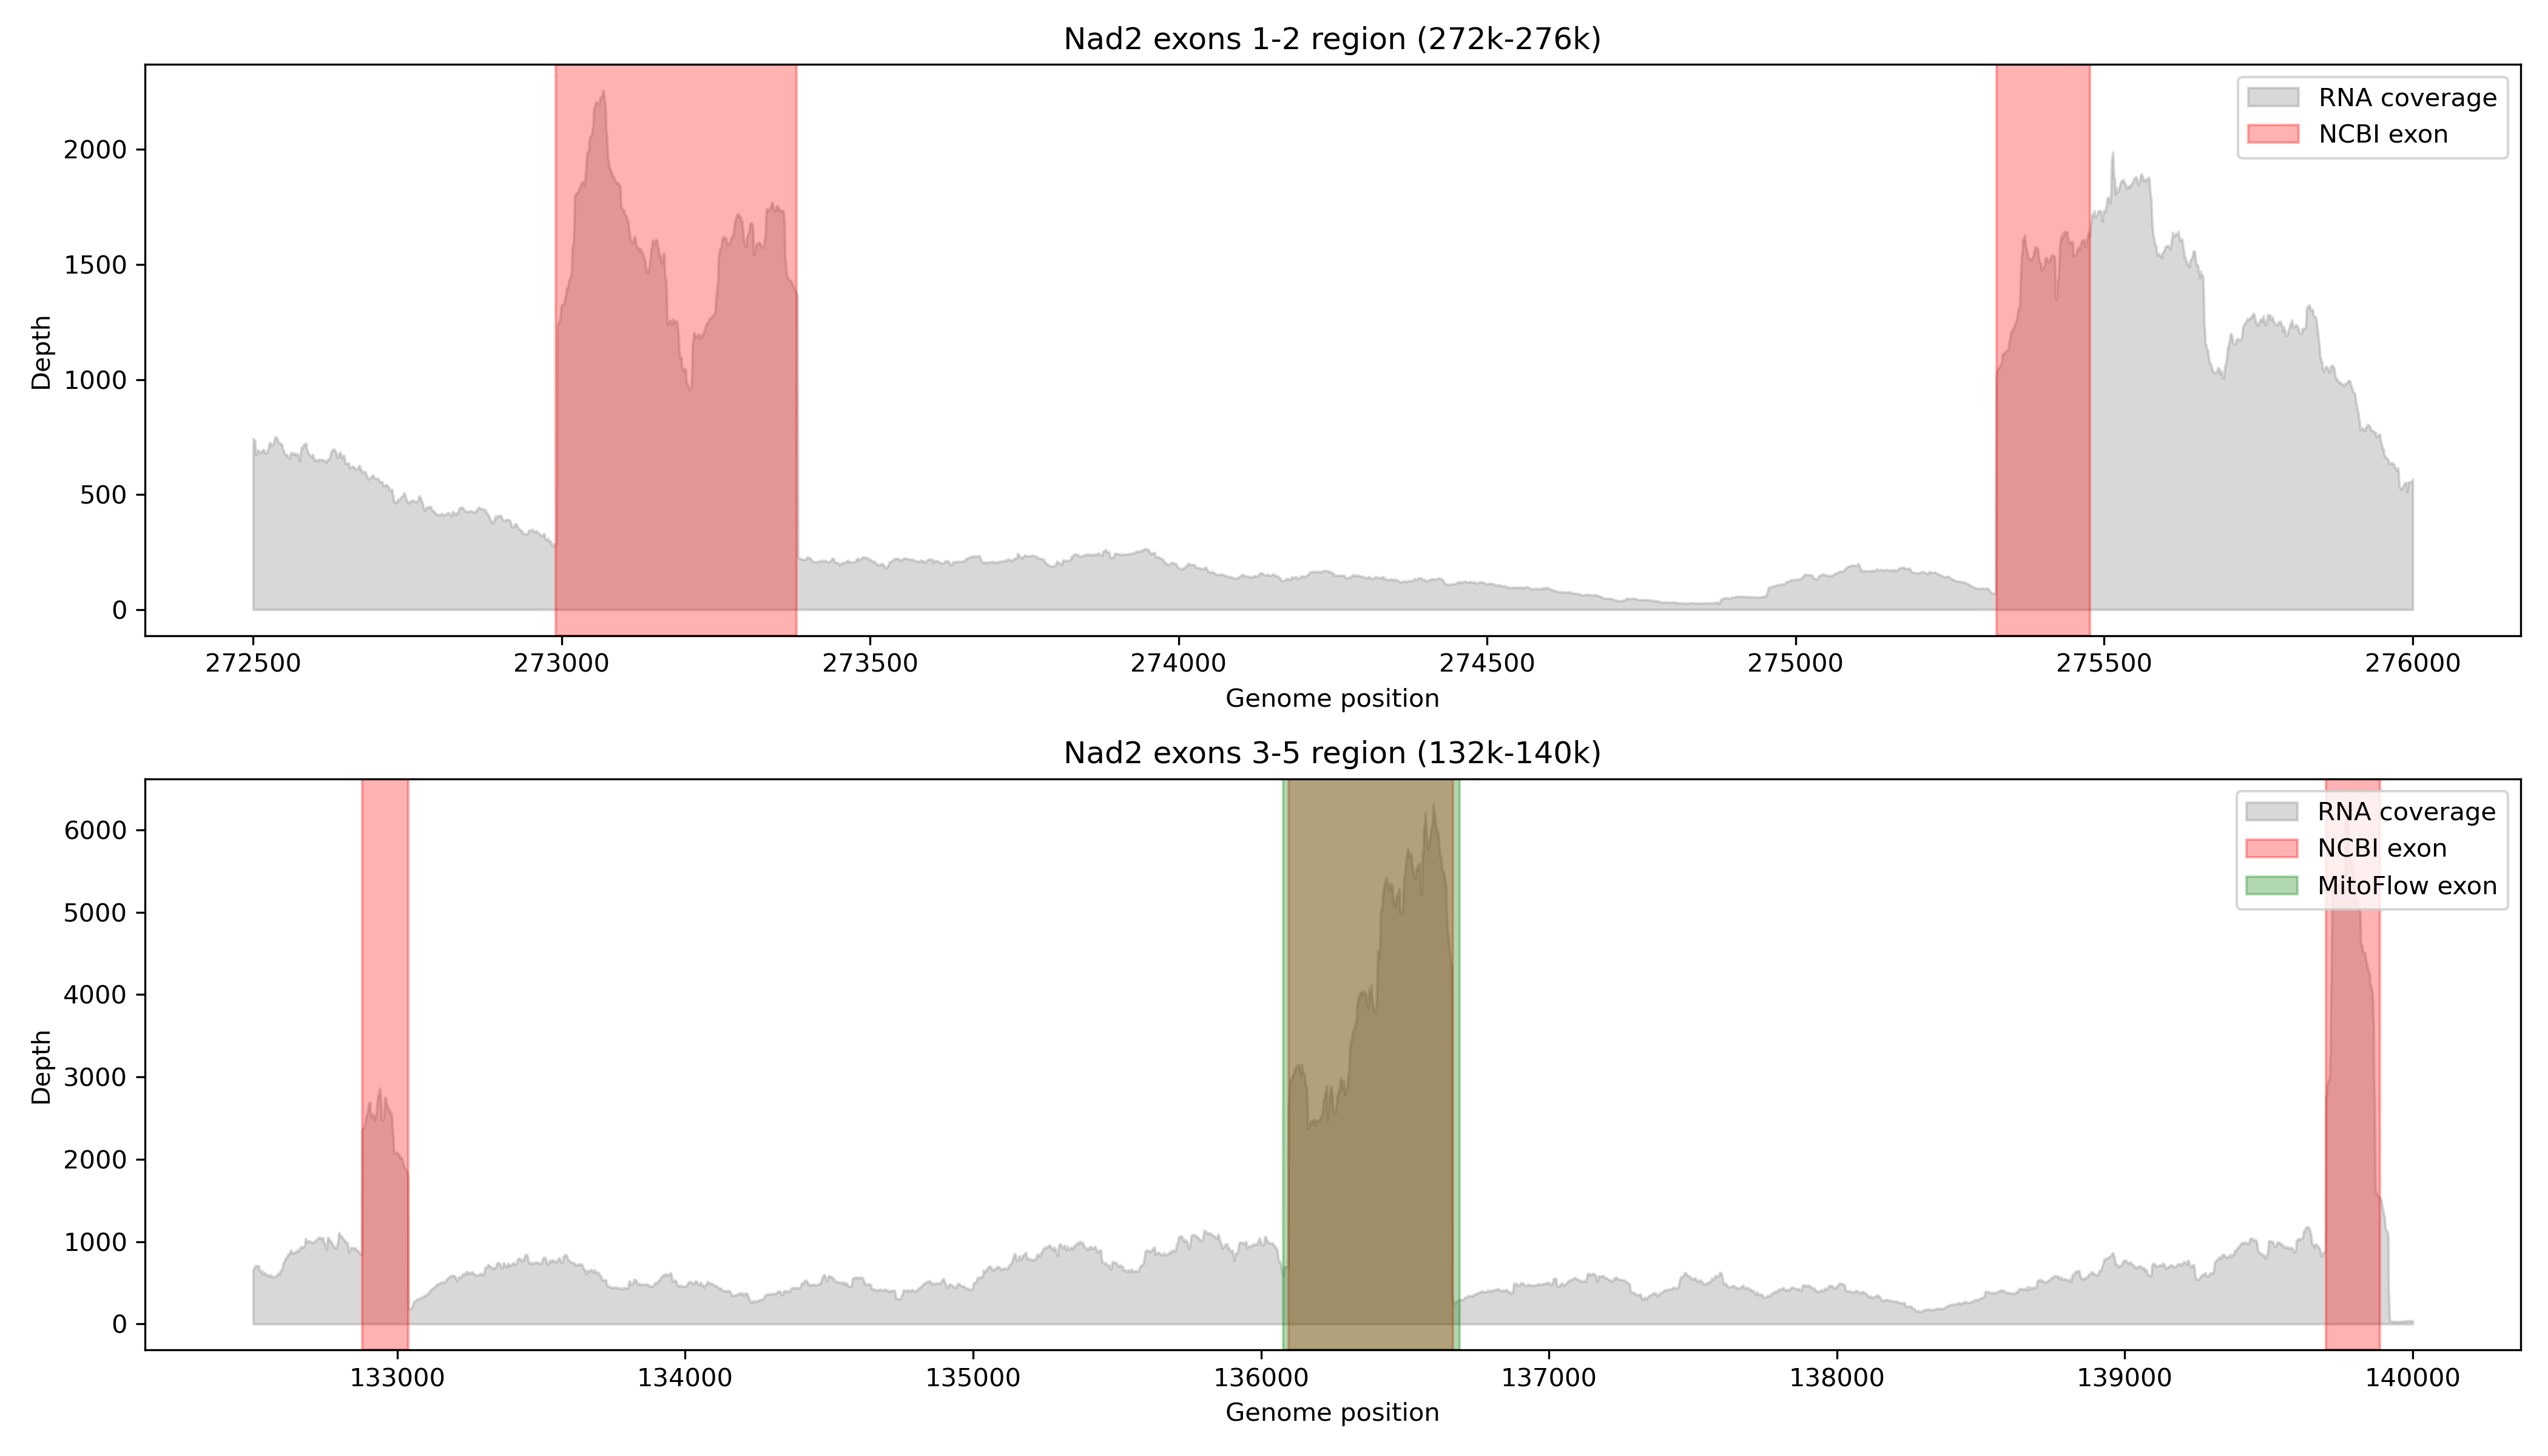
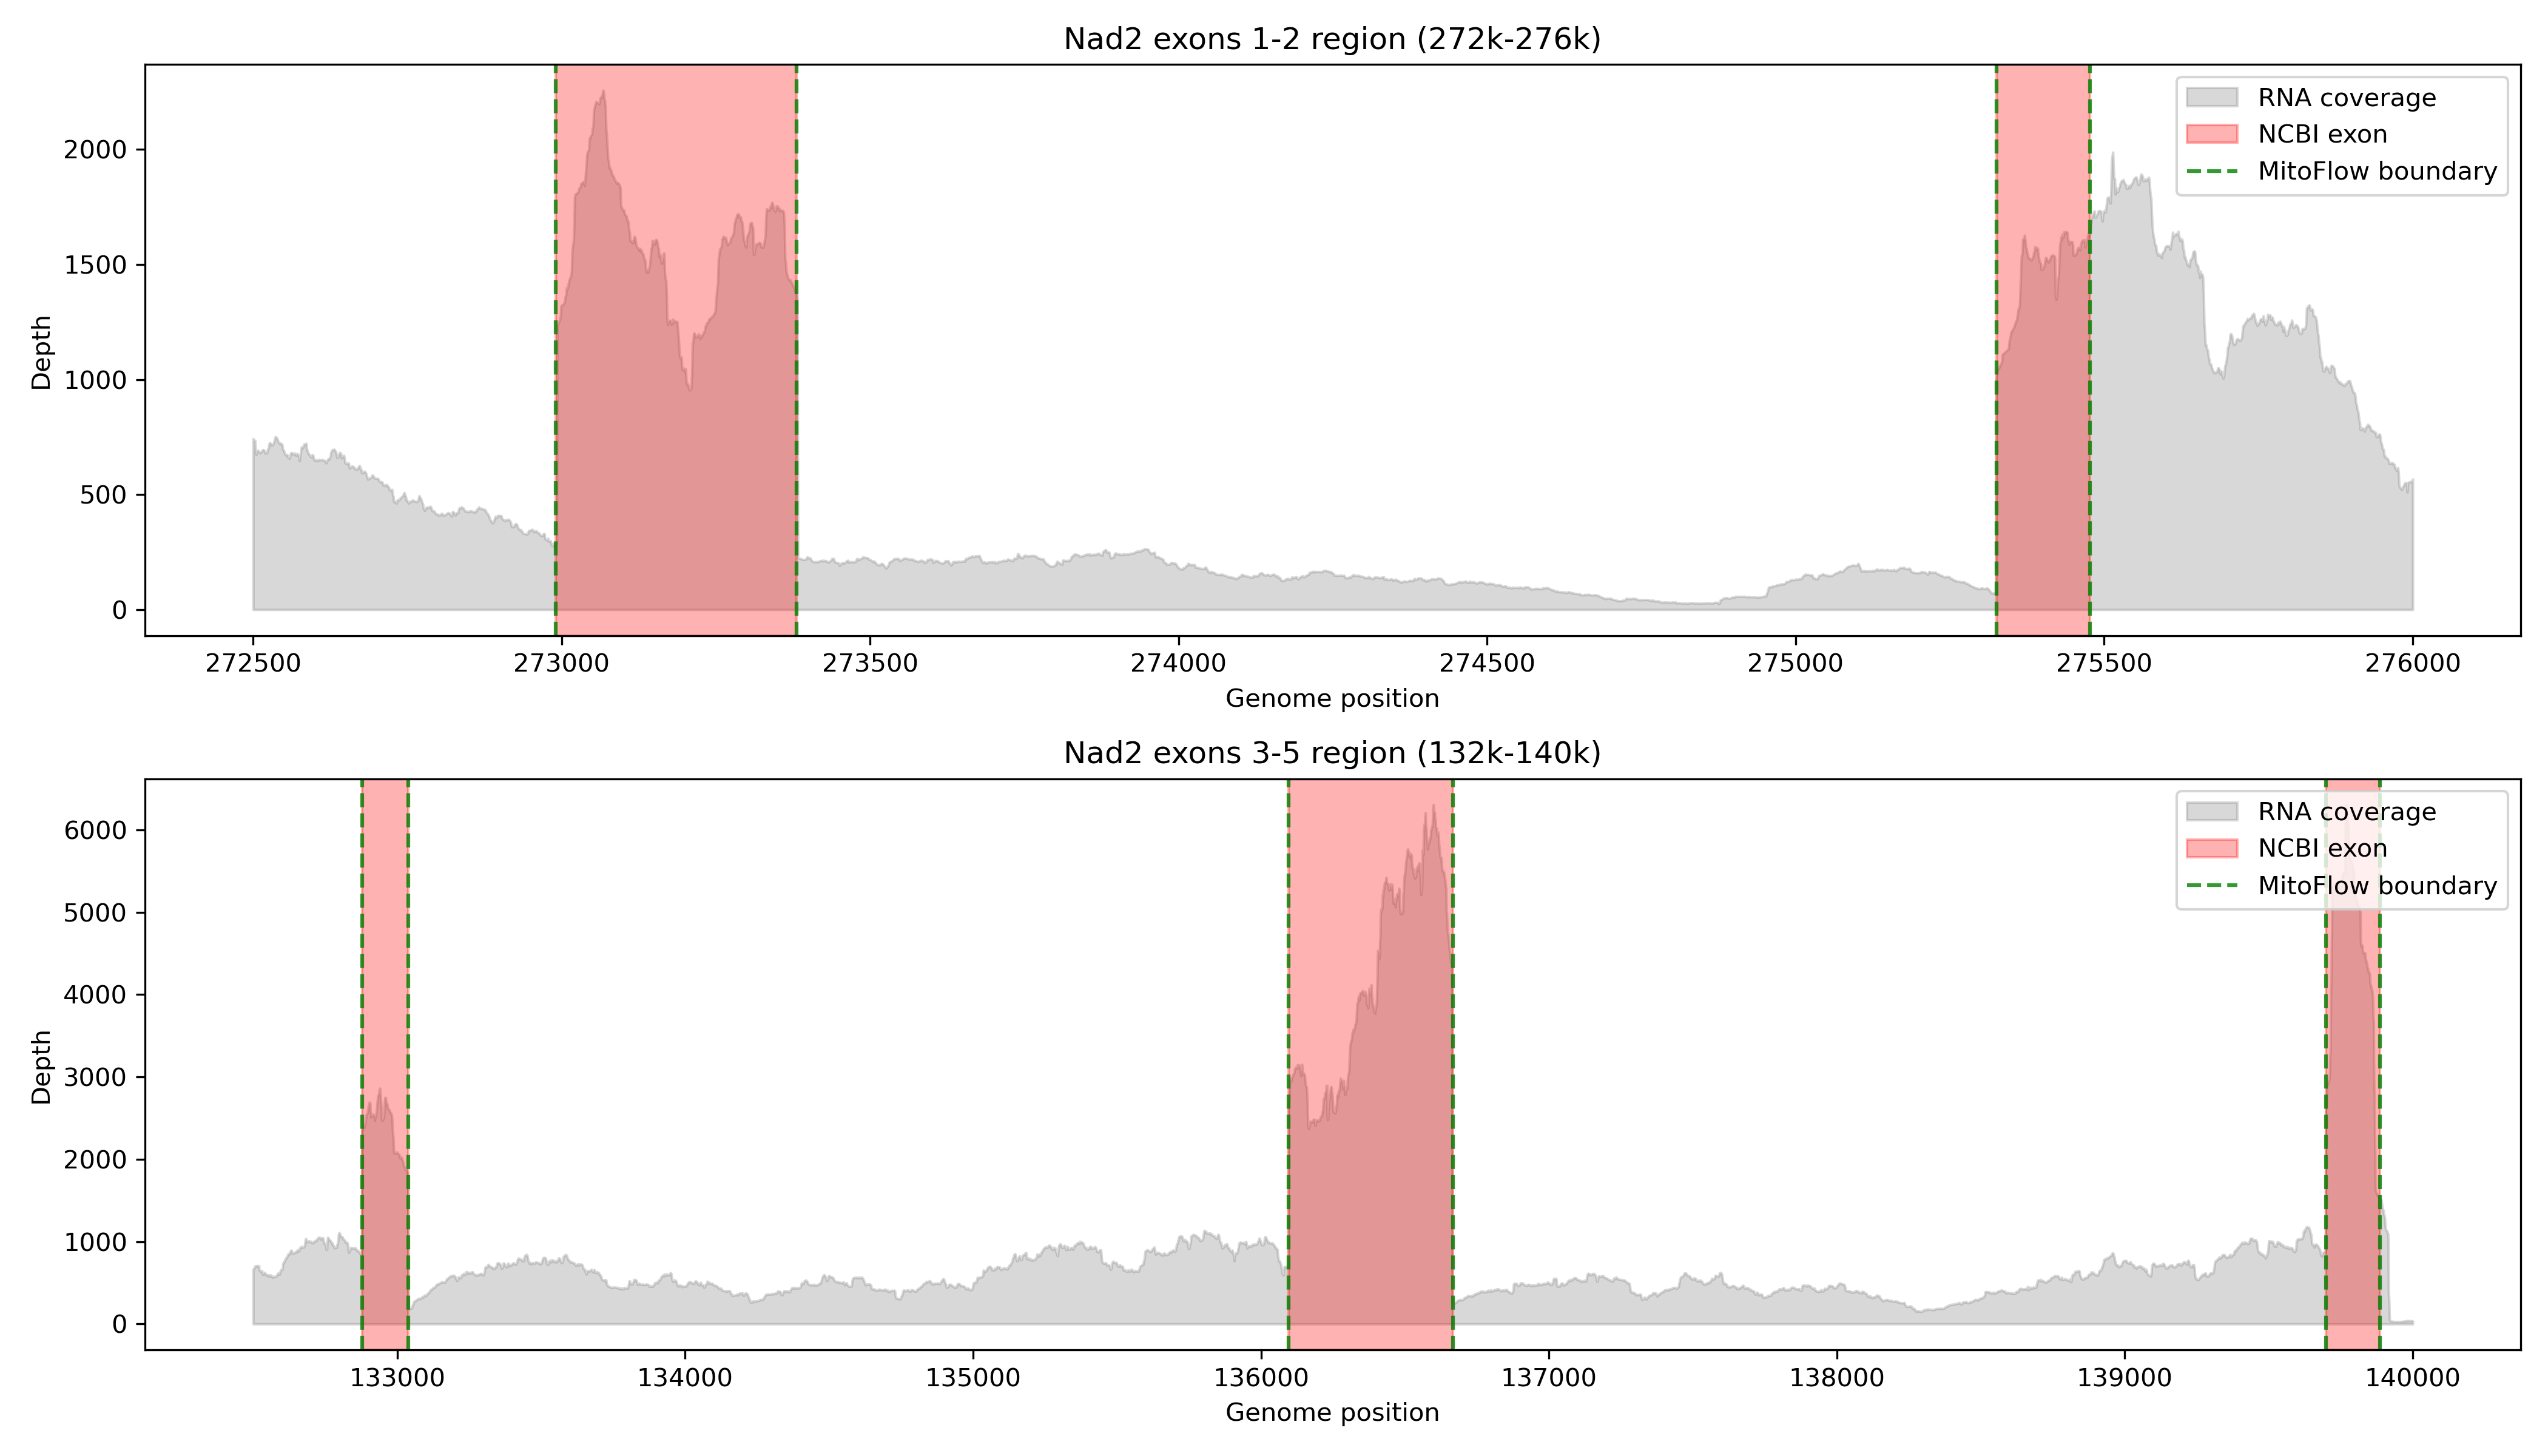
fix(phase4): add nad4 to BLASTn refinement for intron boundary accuracy
BLASTn exon search for nad4 produces intron boundaries that match NCBI
exactly (verified on Pontederia, Eucommia, Nymphaea with RNA-seq).
Previously nad4 was skipped when HMM already found 4 exons, causing
systematic 5-30bp boundary drift on some species.

- annotate_trans_splicing.py: add 'nad4' to forced BLASTn refinement set
  alongside nad1/nad7/cox2.
- apply_trans_splicing_fix.py: include nad4 in genes_to_update.

RNA-seq validation: strong_support_ncbi dropped from 3 to 0.

Changed region(s): [[0.499, 0.5312, 0.5926, 0.9375], [0.8421, 0.5312, 0.9669, 0.625], [0.8421, 0.0625, 0.9981, 0.125]]

diff --git a/mitoflow/scripts/apply_trans_splicing_fix.py b/mitoflow/scripts/apply_trans_splicing_fix.py
@@ -82,7 +82,7 @@ def apply_fix(species_name: str, fasta_path: Path, gff_path: Path):
     # Indices to remove (in reverse order)
     to_remove: set[int] = set()
 
-    genes_to_update = {"cox2", "nad1", "nad7"}
+    genes_to_update = {"cox2", "nad1", "nad7", "nad4"}
     for gene_name in genes_to_update:
         if gene_name not in updated:
             continue

diff --git a/mitoflow/src/mitoflow/annotate/trans_splicing.py b/mitoflow/src/mitoflow/annotate/trans_splicing.py
@@ -1099,7 +1099,7 @@ def annotate_trans_spliced_genes(
             elif len(current.exons) >= config["exons"]:
                 # Only force BLASTn refinement for genes with known systematic
                 # boundary drift (e.g. nad7). For others, trust existing annotation.
-                if gene_name not in {"nad1", "nad7", "cox2"}:
+                if gene_name not in {"nad1", "nad7", "cox2", "nad4"}:
                     logger.debug(f"{gene_name}: already has {len(current.exons)} exons, skipping")
                     continue
                 logger.info(

diff --git a/mitoflow/results/rna_validation/validation_report.md b/mitoflow/results/rna_validation/validation_report.md
@@ -9,85 +9,63 @@ Genes evaluated: 0
 
 ## Glycine max
 
-Genes evaluated: 8
+Genes evaluated: 7
 
 | Verdict | Count |
 |---------|-------|
-| ambiguous | 2 |
+| ambiguous | 1 |
 | no_rna_evidence | 6 |
 
 ## Liriodendron tulipifera
 
-Genes evaluated: 9
+Genes evaluated: 8
 
 | Verdict | Count |
 |---------|-------|
-| ambiguous | 1 |
 | no_rna_evidence | 8 |
 
 ## Capsicum annuum cultivar Jeju
 
-Genes evaluated: 9
+Genes evaluated: 8
 
 | Verdict | Count |
 |---------|-------|
-| ambiguous | 2 |
+| ambiguous | 1 |
 | no_rna_evidence | 7 |
 
 ## Pontederia crassipes
 
-Genes evaluated: 9
-
-| Verdict | Count |
-|---------|-------|
-| ambiguous | 1 |
-| no_rna_evidence | 7 |
-| strong_support_ncbi | 1 |
-
-**nad4**: strong_support_ncbi
-- Intron 1: strong junction support for NCBI (136553-137908), n=450 vs MitoFlow (136565-137906), n=0
-- Intron 2: ambiguous junction support MitoFlow n=0, NCBI n=3
-- Intron 3: strong junction support for NCBI (142624-145065), n=108 vs MitoFlow (142629-145055), n=0
-- Stop boundary: continuous coverage in disputed region (145150-145153, avg_depth=1499.8)
-
-## Selenicereus monacanthus
-
 Genes evaluated: 8
-
-| Verdict | Count |
-|---------|-------|
-| ambiguous | 1 |
-| no_rna_evidence | 7 |
-
-## Eucommia ulmoides
-
-Genes evaluated: 8
-
-| Verdict | Count |
-|---------|-------|
-| ambiguous | 1 |
-| no_rna_evidence | 6 |
-| strong_support_ncbi | 1 |
-
-**nad4**: strong_support_ncbi
-- Intron 1: strong junction support for NCBI (163452-165179), n=277 vs MitoFlow (163464-165177), n=0
-- Intron 2: strong junction support for NCBI (165693-169364), n=6 vs MitoFlow (165709-169360), n=0
-- Intron 3: strong junction support for NCBI (169786-171141), n=26 vs MitoFlow (169812-171131), n=0
-- Stop boundary: continuous coverage in disputed region (171226-171229, avg_depth=1469.0)
-
-## Nymphaea hybrid cultivar 'Joey Tomocik'
-
-Genes evaluated: 9
 
 | Verdict | Count |
 |---------|-------|
 | ambiguous | 2 |
 | no_rna_evidence | 6 |
-| strong_support_ncbi | 1 |
 
-**nad4**: strong_support_ncbi
-- Intron 1: strong junction support for NCBI (223467-224992), n=549 vs MitoFlow (223480-224990), n=0
-- Intron 2: strong junction support for NCBI (225506-229792), n=5 vs MitoFlow (225523-229791), n=0
-- Intron 3: strong junction support for NCBI (230215-232341), n=139 vs MitoFlow (230222-232331), n=0
-- Stop boundary: continuous coverage in disputed region (232401-232426, avg_depth=2179.5)
+## Selenicereus monacanthus
+
+Genes evaluated: 7
+
+| Verdict | Count |
+|---------|-------|
+| ambiguous | 1 |
+| no_rna_evidence | 6 |
+
+## Eucommia ulmoides
+
+Genes evaluated: 7
+
+| Verdict | Count |
+|---------|-------|
+| ambiguous | 1 |
+| no_rna_evidence | 6 |
+
+## Nymphaea hybrid cultivar 'Joey Tomocik'
+
+Genes evaluated: 8
+
+| Verdict | Count |
+|---------|-------|
+| ambiguous | 2 |
+| no_rna_evidence | 6 |
 